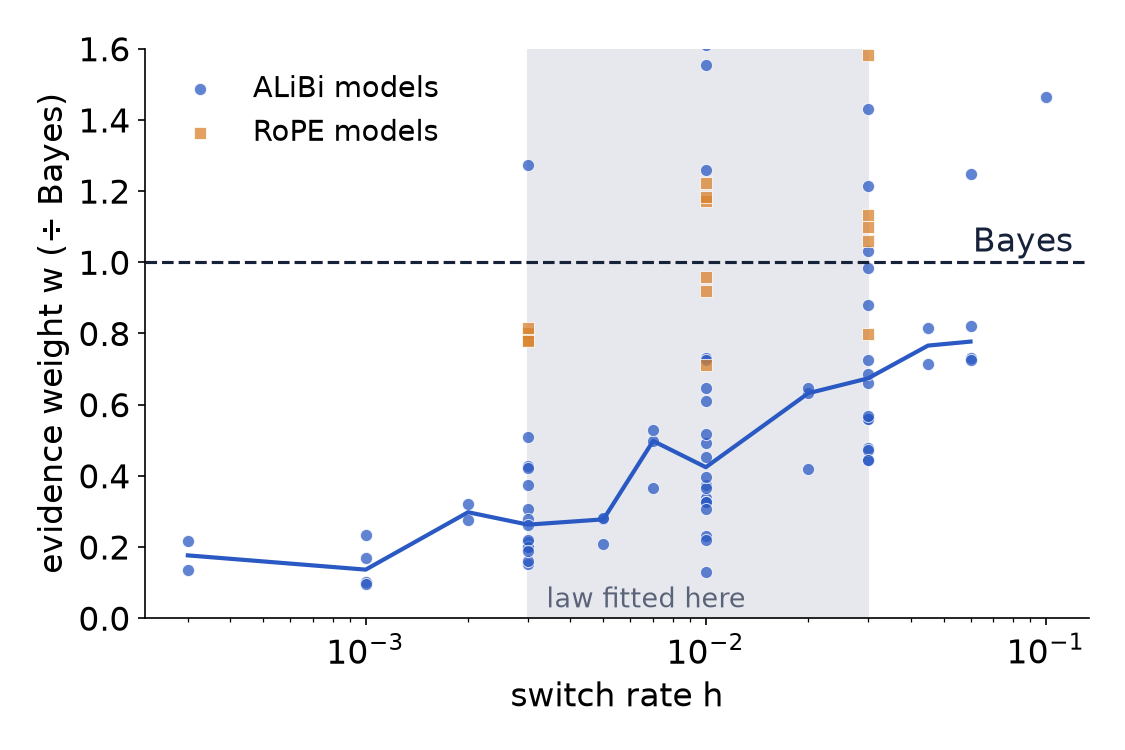
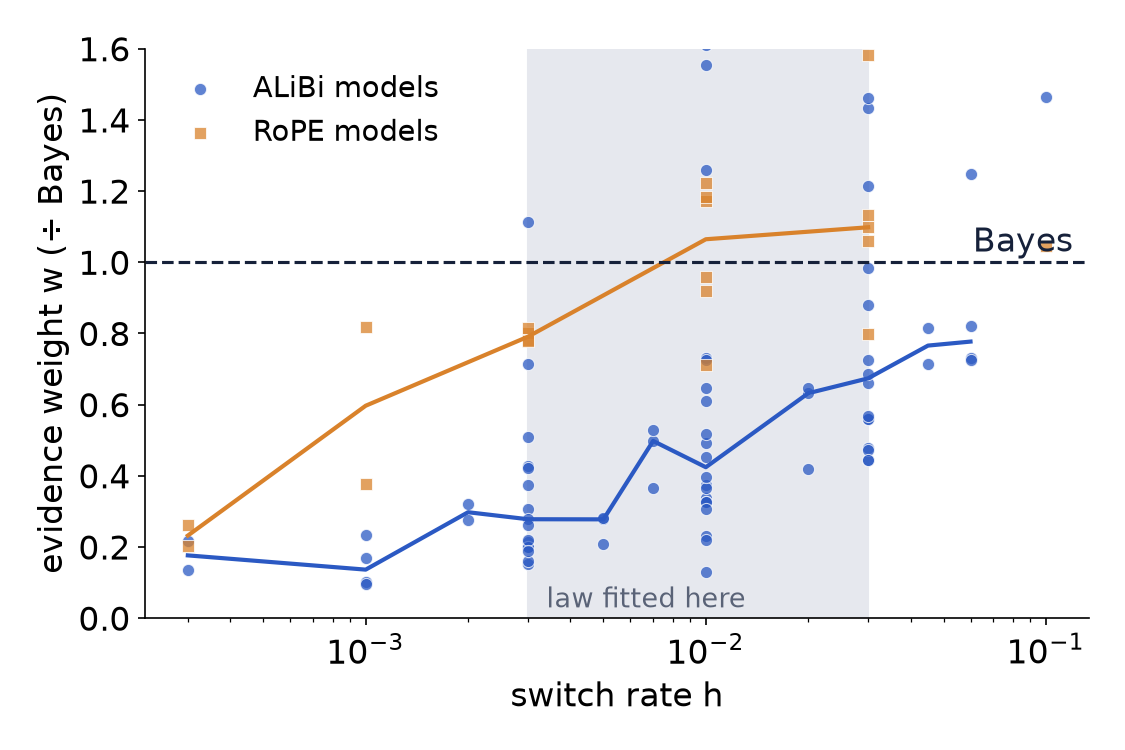
Slides: RoPE also under-weights at low h (R6-P1); mechanism slide softened

diff --git a/slides 2/source/slides/d_edges.html b/slides 2/source/slides/d_edges.html
@@ -7,7 +7,7 @@
 <thead><tr style="background:#16213A;color:#F5F7FA;text-align:left"><th style="padding:12px 22px;width:15%">Edge</th><th style="padding:12px 22px;width:33%">What the models do</th><th style="padding:12px 22px">Cause (how we know)</th><th style="padding:12px 22px;width:13%">Status</th></tr></thead>
 <tbody>
 <tr style="border-bottom:2px solid #E6E8EE"><td style="padding:10px 22px"><b>h ≥ 0.045</b></td><td style="padding:10px 22px">ε′ falls to ε or below (0.08 at ε = 0.1); law error ×2–8</td><td style="padding:10px 22px">the trained slope, and with it w, rises to ≈ 1 (measured); the law's ε′ has no h in it, so it keeps the in-box value</td><td style="padding:10px 22px"><span style="background:#E3F2EA;color:#22744A;border-radius:6px;padding:3px 12px;font-weight:600">explained</span></td></tr>
-<tr style="border-bottom:2px solid #E6E8EE"><td style="padding:10px 22px"><b>h ≤ 0.002</b></td><td style="padding:10px 22px">h′ stops at ≈ 0.01; at h = 0.0003 the switch points leave the window</td><td style="padding:10px 22px">Not the clock (one memory is believed correctly out to 248 pairs). A recent copy counts only once the old copies are far: 0.05 nats per copy at G ≤ 32, 1.4 at G = 128. Not context length (2× context: ×1.13–1.34), not long-gap training data (9× more: ×1.10–1.27), not training length (4× steps: w unchanged at h = 0.0003). Consistent with the slope tie at its extreme: smallest slopes, w ≈ 0.15.</td><td style="padding:10px 22px"><span style="background:#FBF0DC;color:#8A5A12;border-radius:6px;padding:3px 12px;font-weight:600">partly</span></td></tr>
+<tr style="border-bottom:2px solid #E6E8EE"><td style="padding:10px 22px"><b>h ≤ 0.002</b></td><td style="padding:10px 22px">h′ stops at ≈ 0.01; at h = 0.0003 the switch points leave the window</td><td style="padding:10px 22px">Not the clock (one memory is believed correctly out to 248 pairs). A recent copy counts only once the old copies are far: 0.05 nats per copy at G ≤ 32, 1.4 at G = 128. Not context length (2×: ×1.13–1.34), not long-gap data (9×: ×1.10–1.27), not training length (4×: w unchanged). w is smallest here (≈ 0.15), for RoPE too (0.23): recent copies get little weight where conflicts rarely matter in training.</td><td style="padding:10px 22px"><span style="background:#FBF0DC;color:#8A5A12;border-radius:6px;padding:3px 12px;font-weight:600">partly</span></td></tr>
 <tr style="border-bottom:2px solid #E6E8EE"><td style="padding:10px 22px"><b>ε ≥ 0.35</b></td><td style="padding:10px 22px">models switch down to −1.5 nats; Bayes cannot leave ±0.4</td><td style="padding:10px 22px">per-copy evidence is squeezed into ≈ 0.5–1.3 nats whatever ε is (Bayes: 0.4–4.6; the law's logit slope 0.44): over-counted when Bayes's is tiny (w = 1.1–1.4 at h = 0.01)</td><td style="padding:10px 22px"><span style="background:#E3F2EA;color:#22744A;border-radius:6px;padding:3px 12px;font-weight:600">explained</span></td></tr>
 <tr><td style="padding:10px 22px"><b>ε ≤ 0.02</b></td><td style="padding:10px 22px">mild misfit (×1.5–2)</td><td style="padding:10px 22px">the same squeeze the other way: under-counted when Bayes's is large (w = 0.2–0.3)</td><td style="padding:10px 22px"><span style="background:#E3F2EA;color:#22744A;border-radius:6px;padding:3px 12px;font-weight:600">explained</span></td></tr>
 </tbody>
@@ -15,5 +15,5 @@
 <div style="background:#16213A;color:#F5F7FA;border-radius:12px;padding:20px 32px;font-size:25px;line-height:1.45">
 <b style="color:#F2B27E">One picture for inside and outside:</b> time is handled like Bayes everywhere. Evidence is handled as a compressed, h-dependent weight. The law works where that weight sits near its in-box value, and fails exactly where it moves.
 </div>
-<aside>Sir asked why the formula fails outside the region. At every edge the clock is still right, and what moves is the weight given to recent copies. At high h, recent copies get almost the full Bayes weight, so the believed typo rate drops, but the formula has no h in its typo part. At very high typo rates, the models still give each recent copy about half a nat or more, while Bayes gives almost nothing, so the models switch far harder than any Bayes curve. At very low typo rates it is the other way round, and the misfit is mild. At very low h the picture is less clean: a single memory is still trusted correctly far beyond the gaps seen in training, but recent copies only count once the old copies are far away. Doubling the context length changed the switch point only slightly, so that is not the cause. Giving the model nine times more long gaps in training, by using more keys, barely changed it either. Training four times longer did not change it at the lowest h either. What is left is consistent with the slope story at its extreme: at very low h the slopes are smallest, and so is the evidence weight. But we could not move this edge by changing the training data, so we mark it as only partly explained.</aside>
+<aside>Sir asked why the formula fails outside the region. At every edge the clock is still right, and what moves is the weight given to recent copies. At high h, recent copies get almost the full Bayes weight, so the believed typo rate drops, but the formula has no h in its typo part. At very high typo rates, the models still give each recent copy about half a nat or more, while Bayes gives almost nothing, so the models switch far harder than any Bayes curve. At very low typo rates it is the other way round, and the misfit is mild. At very low h the picture is less clean: a single memory is still trusted correctly far beyond the gaps seen in training, but recent copies only count once the old copies are far away. Doubling the context length changed the switch point only slightly, so that is not the cause. Giving the model nine times more long gaps in training, by using more keys, barely changed it either. Training four times longer did not change it at the lowest h either. What we can say is that the evidence weight is smallest here, for RoPE models as well as ALiBi, which fits the idea that recent copies get little weight when conflicts rarely matter in training. But nothing we changed in the training data moved this edge, so we mark it as only partly explained.</aside>
 </section>

diff --git a/slides 2/source/slides/d_why.html b/slides 2/source/slides/d_why.html
@@ -11,11 +11,11 @@
 </div>
 <div style="background:#FFFFFF;border-radius:12px;padding:14px 18px">
 <img src="img/evidence_weight.png" alt="Evidence weight against switch rate" style="width:100%">
-<p style="margin:6px 4px 0;font-size:22px;line-height:1.4"><b style="color:#D9822B">Evidence:</b> one extra recent copy moves the switch point w× as far as in Bayes. ALiBi median: w ≈ 0.15 → 0.26 → 0.42 → 0.67 → 0.78 at h ≤ 0.001 → 0.003 → 0.01 → 0.03 → 0.06 (Spearman with log h 0.74, 75 models). RoPE: 0.8–1.1.</p>
+<p style="margin:6px 4px 0;font-size:22px;line-height:1.4"><b style="color:#D9822B">Evidence:</b> one extra recent copy moves the switch point w× as far as in Bayes. ALiBi median: w ≈ 0.15 → 0.26 → 0.42 → 0.67 → 0.78 at h ≤ 0.001 → 0.003 → 0.01 → 0.03 → 0.06 (75 models). RoPE is higher, ≈ 1 from h ≈ 0.01, but also falls at very low h (0.23 at h = 0.0003).</p>
 </div>
 </div>
 <div style="background:#16213A;color:#F5F7FA;border-radius:12px;padding:18px 30px;font-size:24px;line-height:1.45">
 <b style="color:#F2B27E">So the law is a summary, not a mechanism.</b> A Bayes fit can only express w &lt; 1 as a larger ε′ (and the early switch as h′ &gt; h). Over the box we fitted on, w ≈ 0.25–0.65, and the law's ε′(ε) is that average. It holds where w stays near it and drifts where w moves. <span style="color:#C9D2E3">Why w grows with h: next slide.</span>
 </div>
-<aside>Sir asked why the formula works inside the region. Bayes's decision has two separate parts: how likely the old value is to have survived the gap, which is the time part, and how much each recent copy says that the value changed, which is the evidence part. We measured both directly. For time, we show the model a single old copy and ask what it believes now. In all 58 models, at every switch rate and typo rate, this belief matches exact Bayes, so the models' clock is right. For evidence, we measure how far one extra recent copy moves the switch point compared with Bayes. That weight is well below one at low h and grows with h, reaching about one at h of 0.1. RoPE models are close to one throughout. Our formula is a Bayes fit, and a Bayes fit can only express a weak evidence weight as a higher believed typo rate. Inside the box we fitted on, the weight stays within about 0.25 to 0.65, and the typo-rate formula is effectively its average, so it works there. Outside, the weight moves further with h, and a formula without h cannot follow.</aside>
+<aside>Sir asked why the formula works inside the region. Bayes's decision has two separate parts: how likely the old value is to have survived the gap, which is the time part, and how much each recent copy says that the value changed, which is the evidence part. We measured both directly. For time, we show the model a single old copy and ask what it believes now. In all 58 models, at every switch rate and typo rate, this belief matches exact Bayes, so the models' clock is right. For evidence, we measure how far one extra recent copy moves the switch point compared with Bayes. That weight is well below one at low h and grows with h, reaching about one at h of 0.1. RoPE models reach one at a lower h, but they too fall at very low h. Our formula is a Bayes fit, and a Bayes fit can only express a weak evidence weight as a higher believed typo rate. Inside the box we fitted on, the weight stays within about 0.25 to 0.65, and the typo-rate formula is effectively its average, so it works there. Outside, the weight moves further with h, and a formula without h cannot follow.</aside>
 </section>

diff --git a/slides 2/source/slides/d_mech.html b/slides 2/source/slides/d_mech.html
@@ -12,8 +12,8 @@
 <b>(b, c) Slope → evidence.</b> The same slope sets how much each extra recent copy tips the balance. Editing it in 25 unseen models moves w: ×0.64 when halved (20/20 models), ×1.28 when doubled (14/16). This was pre-registered: the halving test passed, and the doubling test just missed its ×1.3 bound.
 </div>
 <div style="background:#16213A;color:#F5F7FA;border-radius:12px;padding:18px 24px">
-<b style="color:#F2B27E">So:</b> Bayes keeps time and evidence separate, but ALiBi ties both to one slope. The clock pins the slope, so w moves with h, and the law's h-free ε′ fails off its fitted range. Extra conflict training (orange) lifts w only partly, by another route.
+<b style="color:#F2B27E">But not the whole cause:</b> RoPE has no slope, yet its w also falls at very low h (0.23 at h = 0.0003). Where weighing old against new rarely matters in training, both encodings give recent copies little weight. ALiBi's slope tie makes it worse. Extra conflict data (orange) raises w.
 </div>
 </div>
-<aside>This is the explanation for why the evidence weight depends on h. In an ALiBi copy head, a single learned slope sets how fast attention to an old copy decays with distance. Training tunes that slope so that a single old memory fades exactly as fast as values really change, which is why the clock is calibrated, and so the slope grows with h. But the same slope also decides how much each extra recent copy shifts the balance between old and new. Across our models the evidence weight tracks the slope, and when we edit the slope by hand in 25 models we had not used before, the evidence weight moves with it: down by a third when we halve it, up by about a quarter when we double it. We had predicted at least 30 percent for doubling, so that half just missed. Bayes treats time and evidence separately; ALiBi ties them through one number. That is why a law with h in the switch-rate part but no h in the typo part works only near where it was fitted. Training with extra conflict examples raises the weight somewhat, by a route other than the slope, but does not reach Bayes.</aside>
+<aside>This is the explanation for why the evidence weight depends on h. In an ALiBi copy head, a single learned slope sets how fast attention to an old copy decays with distance. Training tunes that slope so that a single old memory fades exactly as fast as values really change, which is why the clock is calibrated, and so the slope grows with h. But the same slope also decides how much each extra recent copy shifts the balance between old and new. Across our models the evidence weight tracks the slope, and when we edit the slope by hand in 25 models we had not used before, the evidence weight moves with it: down by a third when we halve it, up by about a quarter when we double it. We had predicted at least 30 percent for doubling, so that half just missed. Bayes treats time and evidence separately; ALiBi ties them through one number. So in ALiBi the slope is one real cause of the drift. But it is not the whole story: RoPE models, which have no such slope, also give recent copies little weight at very low h. Our reading is that the weight is low wherever weighing old against new rarely matters for the training loss, and that ALiBi's slope makes this worse. Training with extra conflict examples raises the weight, which fits that reading.</aside>
 </section>

diff --git a/recfreq/recfreq/verify/evidence_weight.py b/recfreq/recfreq/verify/evidence_weight.py
@@ -102,8 +102,7 @@ def plot(M, out):
         ax.scatter(x.h, x.w, c=c, marker=m, s=34, alpha=0.75, label=lab, edgecolor="white", lw=0.5)
         g = x.groupby("h").w.agg(["median", "count"])
         g = g[g["count"] >= 2]["median"]
-        if pe == "alibi_learn":
-            ax.plot(g.index, g.values, "-", c=c, lw=2)
+        ax.plot(g.index, g.values, "-", c=c, lw=2)
     ax.axhline(1, ls="--", c=INK, lw=1.5)
     ax.text(0.12, 1.03, "Bayes", color=INK, ha="right")
     ax.axvspan(0.003, 0.03, color="#E6E8EE", zorder=-1)
